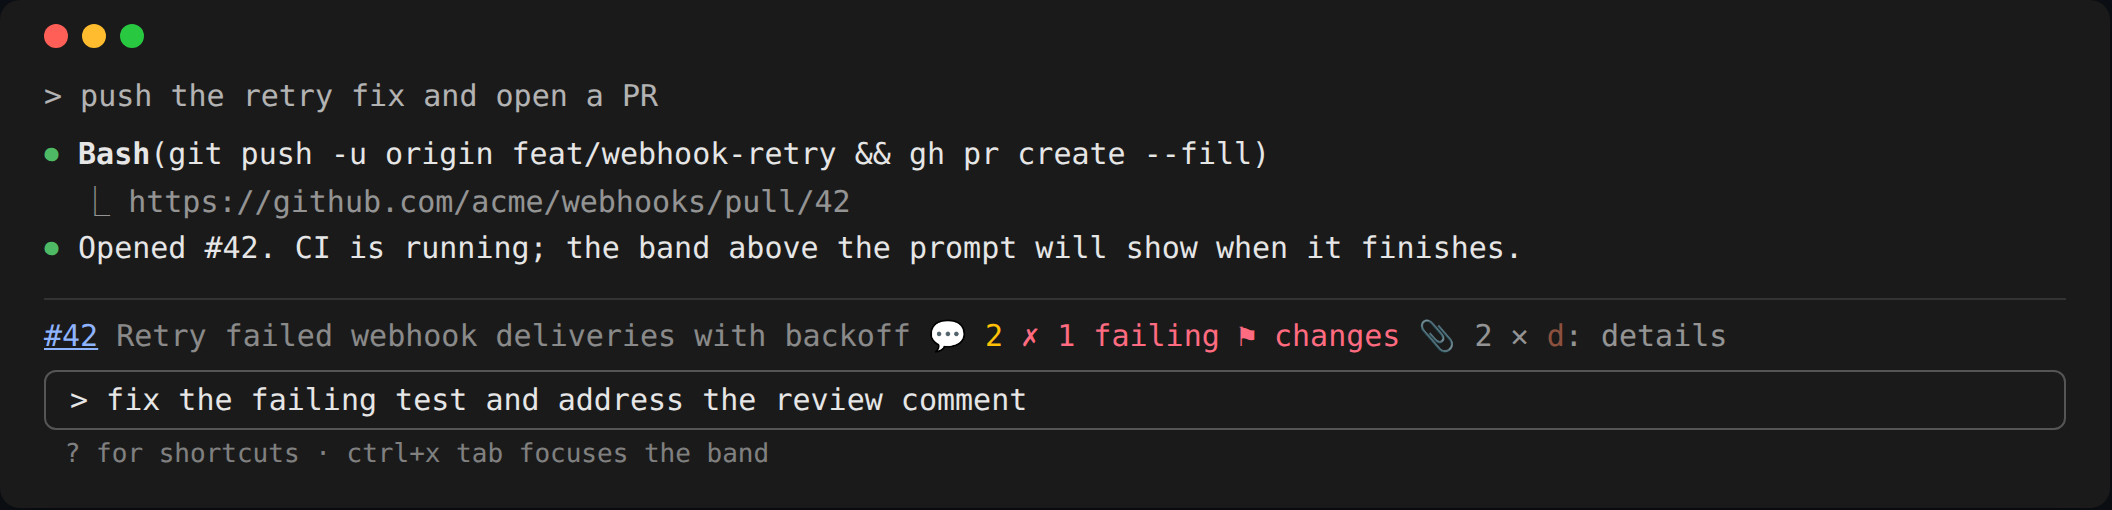
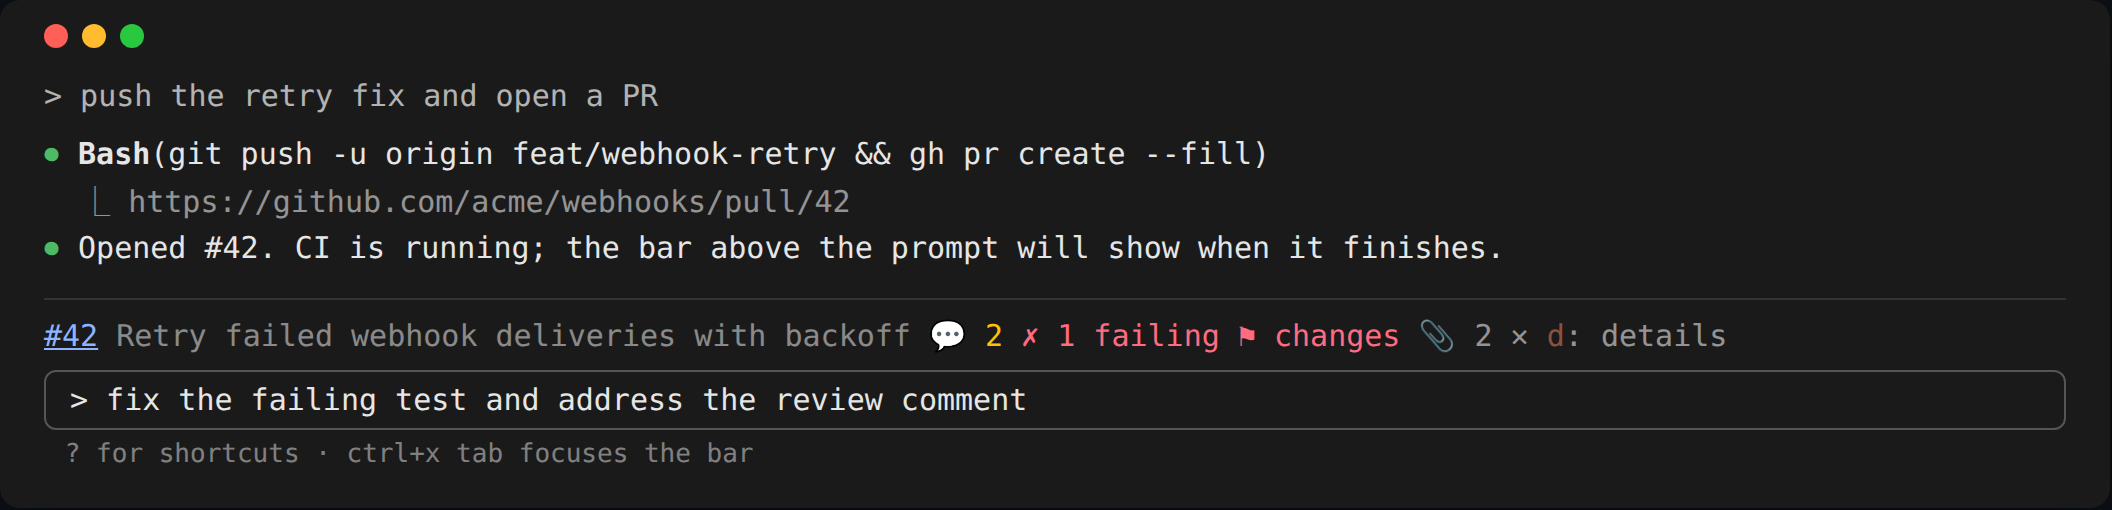
Draw the open comment or check as a card
The opened row is now framed in a rounded, dim border under its row. It
opens with one dim line that adds what the row leaves out (an inline
comment's whole path and whether its thread is resolved; who wrote a
review or comment), then the commented lines, the text and an action row
spaced apart: Address or Fix CI / Load log, and Open on GitHub. The
header colours the review decision and a conflict. Screenshots redrawn.

Claude-Session: https://claude.ai/code/session_01RAkrUW1WrXB2evq4FGjyEi

Changed region(s): [[0.3125, 0.4706, 0.7188, 0.5294], [0.3438, 0.8824, 0.375, 0.9118]]

diff --git a/hooks/views/pane.tsx b/hooks/views/pane.tsx
@@ -82,6 +82,19 @@ const KIND: Record<Comment['kind'], string> = {
   review: 'review',
 }
 
+const DECISION: Record<NonNullable<PullRequest['reviewDecision']>, string> = {
+  APPROVED: 'success',
+  CHANGES_REQUESTED: 'error',
+  REVIEW_REQUIRED: 'warning',
+}
+
+const STATE: Record<Check['state'], string> = {
+  fail: 'failed',
+  pending: 'running',
+  pass: 'passed',
+  skip: 'skipped',
+}
+
 /** One sentence for why GitHub could not be asked, and what happens next. */
 export function problemTextOf(problem: Problem): string {
   switch (problem.kind) {
@@ -261,12 +274,16 @@ export function paneView(
             {pr.title}
           </Text>
         </Box>
-        <Text dimColor wrap="truncate-end">
-          {pr.baseRef} ← {pr.headRef}
-          {pr.isDraft ? ' · draft' : ''}
-          {pr.reviewDecision ? ` · ${pr.reviewDecision.toLowerCase().replace('_', ' ')}` : ''}
-          {pr.hasConflict ? ' · conflict' : ''}
-        </Text>
+        <Box columnGap={1}>
+          <Text dimColor wrap="truncate-end">
+            {pr.baseRef} ← {pr.headRef}
+            {pr.isDraft ? ' · draft' : ''}
+          </Text>
+          {pr.reviewDecision && (
+            <Text color={DECISION[pr.reviewDecision]}>· {pr.reviewDecision.toLowerCase().replace('_', ' ')}</Text>
+          )}
+          {pr.hasConflict && <Text color="error">· conflict</Text>}
+        </Box>
         {model.problem && (
           <Text color="warning" wrap="truncate-end">
             Showing the last answer. {problemTextOf(model.problem)}
@@ -411,8 +428,13 @@ export function paneView(
 
       {!isOpenInPlace && (
         <Box marginTop={1} flexDirection="column">
-          {selectedCheck && checkDetailOf(selectedCheck)}
-          {selectedComment && commentDetailOf(selectedComment)}
+          {selectedCheck && (
+            <Text bold color={ICON[selectedCheck.state].color}>
+              {ICON[selectedCheck.state].glyph} {selectedCheck.name}
+            </Text>
+          )}
+          {selectedCheck && openedRow(Box, checkDetailOf(selectedCheck))}
+          {selectedComment && openedRow(Box, commentDetailOf(selectedComment))}
           {!selectedCheck && !selectedComment && model.selection?.kind !== 'none' && (
             <Text dimColor>Nothing failing and nothing unread. Pick a row to see it.</Text>
           )}
@@ -483,14 +505,18 @@ function checkDetail(
 ): JSX.Element {
   return (
     <Box flexDirection="column">
-      <Box columnGap={1}>
-        <Text bold color={ICON[check.state].color}>
-          {ICON[check.state].glyph} {check.name}
-        </Text>
-        {check.url && <Link href={check.url} label="Open" />}
-      </Box>
-      {check.description && <Text dimColor>{check.description}</Text>}
-      <Box columnGap={1}>
+      <Text dimColor wrap="truncate-end">
+        {check.description ?? STATE[check.state]}
+      </Text>
+      {check.jobId === null && (
+        <Text dimColor>Not a GitHub Actions job, so its log is not fetchable here.</Text>
+      )}
+      {log !== null && (
+        <Box marginTop={1}>
+          <Code source={log || '(empty log)'} wrap="truncate-end" />
+        </Box>
+      )}
+      <Box marginTop={1} columnGap={2}>
         {check.state === 'fail' && (
           <Button
             key="fix-ci"
@@ -508,11 +534,8 @@ function checkDetail(
             onPress={() => actions.loadLog(check)}
           />
         )}
+        {check.url && <Link href={check.url} label="Open on GitHub" />}
       </Box>
-      {check.jobId === null && (
-        <Text dimColor>Not a GitHub Actions job, so its log is not fetchable here.</Text>
-      )}
-      {log !== null && <Code source={log || '(empty log)'} wrap="truncate-end" />}
     </Box>
   )
 }
@@ -525,18 +548,14 @@ function commentDetail(
 ): JSX.Element {
   return (
     <Box flexDirection="column">
-      <Box columnGap={1}>
-        <Text bold>@{comment.author}</Text>
-        <Text dimColor>
-          {KIND[comment.kind]}
-          {comment.reviewState ? ` · ${comment.reviewState.toLowerCase()}` : ''}
-          {comment.path ? ` · ${comment.path}${comment.line ? `:${comment.line}` : ''}` : ''}
-        </Text>
-        {comment.url && <Link href={comment.url} label="Open" />}
+      <Text dimColor wrap="truncate-end">
+        {metaOf(comment)}
+      </Text>
+      {comment.diffHunk && <Box marginTop={1}>{hunkCode(Code, comment.diffHunk)}</Box>}
+      <Box marginTop={1}>
+        <Markdown text={bodyMarkdownOf(comment.body) || '_(no text)_'} />
       </Box>
-      {comment.diffHunk && hunkCode(Code, comment.diffHunk)}
-      <Markdown text={bodyMarkdownOf(comment.body) || '_(no text)_'} />
-      <Box>
+      <Box marginTop={1} columnGap={2}>
         <Button
           key="address"
           hotkey="a"
@@ -544,9 +563,24 @@ function commentDetail(
           label={isArmed ? 'Address (attached)' : 'Address'}
           onPress={() => actions.address(comment)}
         />
+        {comment.url && <Link href={comment.url} label="Open on GitHub" />}
       </Box>
     </Box>
   )
+}
+
+/**
+ * The one line a comment's card opens with, adding what its row leaves out:
+ * an inline comment's whole path, else who wrote it and what it is.
+ */
+function metaOf(comment: Comment): string {
+  if (comment.path) {
+    return `${comment.path}${comment.line ? `:${comment.line}` : ''}${comment.isResolved ? ' · resolved' : ''}`
+  }
+
+  const verdict = comment.reviewState ? `, ${comment.reviewState.toLowerCase().replace('_', ' ')}` : ''
+
+  return `@${comment.author} · ${KIND[comment.kind]}${verdict}`
 }
 
 /**
@@ -564,7 +598,6 @@ function hunkCode(Code: Table['Code'], diffHunk: string): JSX.Element {
   )
 }
 
-/** A selected row's detail, indented under the row and set off below it. */
 /** The description in order: its text as markdown, each image drawn where it was fetched, else a link to it. */
 function descriptionView(
   { Box, Text, Link, Markdown, Image }: Pick<WithImage, 'Box' | 'Text' | 'Link' | 'Markdown' | 'Image'>,
@@ -604,9 +637,10 @@ function descriptionView(
   )
 }
 
+/** A selected row's detail: a card under the row, framed so it reads apart from the list. */
 function openedRow(Box: Table['Box'], detail: JSX.Element): JSX.Element {
   return (
-    <Box marginLeft={MARKER_COLUMNS} marginBottom={1} flexDirection="column">
+    <Box marginLeft={2} marginBottom={1} borderStyle="round" borderDimColor paddingX={1} flexDirection="column">
       {detail}
     </Box>
   )

diff --git a/tests/views.test.ts b/tests/views.test.ts
@@ -88,7 +88,8 @@ describe('pane', () => {
   test('nothing failing and nothing unread: nothing selected, nothing listed', async ($, on) => {
     const pane = await drawn($, on, prAnswer({ isDraft: true, mergeable: 'CONFLICTING', ...noComments }, []), PANE)
 
-    expect(await pane.find({ type: 'Text', text: /main ← feat\/bar · draft · conflict/ })).toBeDefined()
+    expect(await pane.find({ type: 'Text', text: /main ← feat\/bar · draft/ })).toBeDefined()
+    expect(await pane.find({ type: 'Text', text: '· conflict' })).toBeDefined()
     expect(await pane.find({ type: 'Text', text: /none reported/ })).toBeDefined()
     expect(await pane.find({ type: 'Text', text: /^ *none$/ })).toBeDefined()
     expect(await pane.find({ type: 'Text', text: /Nothing failing and nothing unread/ })).toBeDefined()
@@ -201,7 +202,7 @@ describe('pane', () => {
     await pane.redraw()
     await pane.press({ key: 'select:comment:IC1' })
     await pane.redraw()
-    expect(await pane.find({ type: 'Text', text: /^comment$/ })).toBeDefined()
+    expect(await pane.find({ type: 'Text', text: '@bob · comment' })).toBeDefined()
 
     await pane.press({ key: 'select:comment:RV1' })
     await pane.redraw()
@@ -209,7 +210,7 @@ describe('pane', () => {
     await pane.redraw()
     // Folded away, the picked review still shows, at the foot.
     expect(await pane.find({ type: 'Button', key: 'select:comment:RV1' })).toBeUndefined()
-    expect(await pane.find({ type: 'Text', text: /review · changes_requested/ })).toBeDefined()
+    expect(await pane.find({ type: 'Text', text: /@\w+ · review, changes requested/ })).toBeDefined()
     expect(await pane.find({ type: 'Markdown', text: '_(no text)_' })).toBeDefined()
     expect(await pane.find({ type: 'Button', key: 'toggle-conversation' })).toBeDefined()
   })
@@ -218,7 +219,7 @@ describe('pane', () => {
     const answer = prAnswer({ reviewThreads: { nodes: [{ isResolved: false, comments: { nodes: [inlineComment({ line: null })] } }] } }, [])
     const pane = await drawn($, on, answer, PANE)
 
-    expect(await pane.find({ type: 'Text', text: /^inline · src\/app\.ts$/ })).toBeDefined()
+    expect(await pane.find({ type: 'Text', text: /^src\/app\.ts$/ })).toBeDefined()
   })
 })
 
@@ -297,6 +298,9 @@ describe('resolved threads', () => {
     const keys = (await pane.findAll({ type: 'Button' })).map(button => button.key).filter(key => key?.startsWith('select:comment:'))
     expect(keys).toEqual(['select:comment:RC1', 'select:comment:RC9'])
     expect(await pane.find({ type: 'Text', text: /✓/ })).toBeDefined()
+    await pane.press({ key: 'select:comment:RC9' })
+    await pane.redraw()
+    expect(await pane.find({ type: 'Text', text: 'src/app.ts:3 · resolved' })).toBeDefined()
 
     await pane.press({ key: 'toggle-resolved' })
     await pane.redraw()

diff --git a/tests/handoff.test.ts b/tests/handoff.test.ts
@@ -84,7 +84,7 @@ describe('Fix CI', () => {
 
     expect(await pane.find({ type: 'Text', text: /not fetchable here/ })).toBeDefined()
     expect(await pane.find({ type: 'Text', text: '3 tests failed' })).toBeDefined()
-    expect(await pane.find({ type: 'Link', text: 'Open' })).toBeUndefined()
+    expect(await pane.find({ type: 'Link', text: 'Open on GitHub' })).toBeUndefined()
     await pane.press({ key: 'fix-ci' })
     await clock.settle()
     expect(requests).not.toContain(LOG)

diff --git a/README.md b/README.md
@@ -6,7 +6,7 @@ A Claude Code mod that puts the current branch's GitHub PR above the prompt, so 
 
 ![The /pr pane beside the transcript, with the failing check selected and its log tail loaded](docs/screenshots/pane-check.png)
 
-![The /pr pane with an inline review comment selected: opened in place with the commented lines, its text and the Address button](docs/screenshots/pane-comment.png)
+![The /pr pane with an inline review comment selected: opened in place as a card with its full path, the commented lines, its text, Address and Open on GitHub](docs/screenshots/pane-comment.png)
 
 _The screenshots are the trees the mod draws for a sample PR, captured through `claude plugin test` and rendered in a terminal frame._
 
